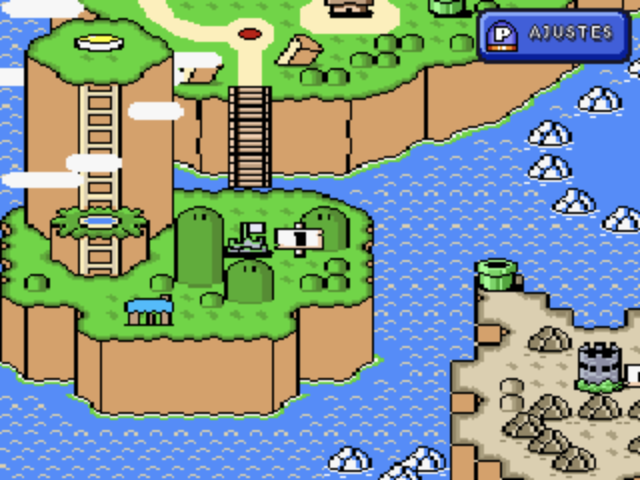
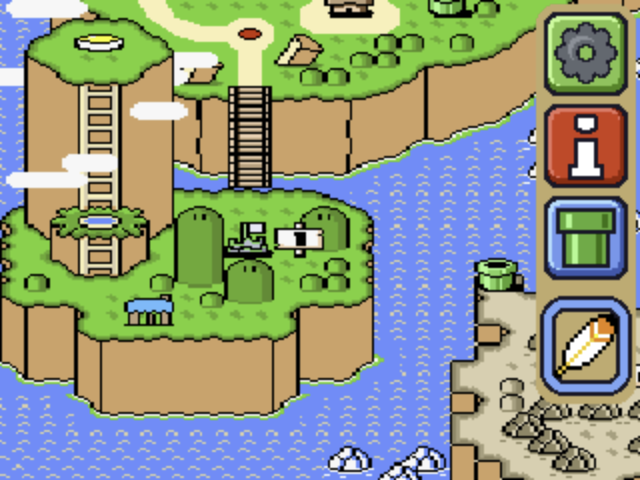
v1.0.0: 2 jugadores por wifi local y nueva pantalla táctil

diff --git a/index.html b/index.html
@@ -38,7 +38,7 @@
   </div>
   <div class="hero-inner">
     <img class="logo" src="assets/img/logo.png" alt="Dino Land 3D: Cape & Egg Collection" width="900" height="361">
-    <p class="tagline" data-i18n="hero.tagline">Dos clásicos de plataformas de 16 bits en tu Nintendo 3DS: la pantalla táctil se convierte en un panel vivo y el 3D separa el escenario en capas.</p>
+    <p class="tagline" data-i18n="hero.tagline">Dos clásicos de plataformas de 16 bits en tu Nintendo 3DS: la pantalla táctil se convierte en un panel vivo, el 3D separa el escenario en capas y ahora se juega a dos jugadores por wifi local.</p>
     <div class="cta">
       <a class="btn btn-primary" id="download" href="https://github.com/ChrZazueta/DinoLand3D-3DS/releases/latest/download/DinoLand3D.cia">
         <span class="btn-icon" aria-hidden="true">⬇</span>
@@ -58,9 +58,14 @@
   <p class="lead" data-i18n="features.lead">No es solo un emulador con un menú: cada pantalla está pensada para jugar en la 3DS.</p>
   <div class="grid">
     <article class="card">
+      <div class="badge b-green">2P</div>
+      <h3 data-i18n="f.net.t">2 jugadores por wifi local</h3>
+      <p data-i18n="f.net.d">Crea una sala y tu amigo se une desde su consola: cada uno controla a su personaje en el juego de 1990, sin cables y sin internet.</p>
+    </article>
+    <article class="card">
       <div class="badge b-red">✋</div>
       <h3 data-i18n="f.touch.t">Pantalla táctil viva</h3>
-      <p data-i18n="f.touch.d">Contadores, progreso por mundo, mapa, inventario y ajustes siempre a un toque, con el estilo de cada juego.</p>
+      <p data-i18n="f.touch.d">Lo de la barra de estado pasa abajo con números grandes: mundo y nivel, puntos, vidas, monedas grandes y el objeto guardado (tócalo para soltarlo). Arriba queda el juego completo.</p>
     </article>
     <article class="card">
       <div class="badge b-blue">3D</div>
@@ -68,14 +73,9 @@
       <p data-i18n="f.3d.d">Con el deslizador, el fondo se va hacia atrás, el escenario queda en la pantalla y los personajes salen hacia ti.</p>
     </article>
     <article class="card">
-      <div class="badge b-yellow">▤</div>
-      <h3 data-i18n="f.bar.t">Barra de estado abajo</h3>
-      <p data-i18n="f.bar.d">La barra original se muda a la pantalla táctil: arriba queda la imagen del juego completa, sin nada encima.</p>
-    </article>
-    <article class="card">
       <div class="badge b-green">⛰</div>
       <h3 data-i18n="f.bg.t">El nivel también abajo</h3>
-      <p data-i18n="f.bg.d">El fondo del nivel en el que estás se ve detrás del panel táctil y se mueve con la cámara.</p>
+      <p data-i18n="f.bg.d">El fondo del nivel en el que estás se ve detrás del panel, que se vuelve transparente, y se mueve con la cámara.</p>
     </article>
     <article class="card">
       <div class="badge b-yellow">◉</div>
@@ -112,11 +112,11 @@
   <h3 class="shots-title" data-i18n="gallery.cape">Cape · 1990</h3>
   <div class="shots">
     <figure class="ds"><div class="screen"><img src="assets/img/cape_level.png" alt="" loading="lazy" width="640" height="480"></div>
-      <figcaption data-i18n="g.cape.level">En un nivel: la barra de estado original, el mapa del mundo y bloques como botones, con el fondo del nivel detrás.</figcaption></figure>
+      <figcaption data-i18n="g.cape.level">En un nivel: mundo y nivel, puntos, vidas, monedas grandes y el objeto guardado, sobre el fondo del propio nivel.</figcaption></figure>
     <figure class="ds"><div class="screen"><img src="assets/img/cape_map.png" alt="" loading="lazy" width="640" height="480"></div>
-      <figcaption data-i18n="g.cape.map">En el mapa: la pantalla táctil continúa el mapa de arriba.</figcaption></figure>
-    <figure class="ds"><div class="screen"><img src="assets/img/cape_info.png" alt="" loading="lazy" width="640" height="480"></div>
-      <figcaption data-i18n="g.cape.info">INFO: monedas, estrellas, vidas, puntos y niveles encontrados.</figcaption></figure>
+      <figcaption data-i18n="g.cape.map">En el mapa: la pantalla táctil continúa el mapa y al lado quedan ajustes, info, mundos y el objeto guardado.</figcaption></figure>
+    <figure class="ds"><div class="screen"><img src="assets/img/cape_lobby.png" alt="" loading="lazy" width="640" height="480"></div>
+      <figcaption data-i18n="g.cape.lobby">2 jugadores: una consola crea la sala y la otra se une.</figcaption></figure>
     <figure class="ds"><div class="screen"><img src="assets/img/cape_menu.png" alt="" loading="lazy" width="640" height="480"></div>
       <figcaption data-i18n="g.cape.menu">Ajustes con el estilo del juego.</figcaption></figure>
   </div>
@@ -211,6 +211,7 @@
     <details><summary data-i18n="q4.q">¿Dónde se guardan mis partidas?</summary><p data-i18n="q4.a">En sd:/3ds/DinoLand3D/saves/. Se guardan al pausar, al ir al menú HOME y al salir. Los estados de guardado están en savestates/.</p></details>
     <details><summary data-i18n="q5.q">¿Cómo actualizo?</summary><p data-i18n="q5.a">Con Wi-Fi, la app busca sola al abrirse y te avisa en el menú de juegos; también puedes buscar a mano en Ajustes → Actualizar. Si la instalaste como CIA se reinicia sola ya actualizada; con el .3dsx, ciérrala y vuelve a abrirla. También puedes volver a escanear el QR.</p></details>
     <details><summary data-i18n="q7.q">No se oye nada, ¿qué hago?</summary><p data-i18n-html="q7.a">A tu consola le falta el firmware de audio (<code>/3ds/dspfirm.cdc</code>); casi siempre ya está porque la guía lo crea al final. Para crearlo: abre el menú de Luma con <strong>L + ↓ + SELECT</strong> → <strong>Miscellaneous options</strong> → <strong>Dump DSP firmware</strong>, y vuelve a abrir la app.</p></details>
+    <details><summary data-i18n="q8.q">¿Cómo se juega a 2 jugadores?</summary><p data-i18n="q8.a">Las dos consolas necesitan Dino Land 3D (la misma versión), la misma ROM del juego de 1990 y la Wi-Fi encendida; no hace falta internet. En una, toca 2 PLAYERS → Crear sala; en la otra, 2 PLAYERS → Buscar salas y elige la sala. Quien crea la sala elige el archivo y es el jugador 1; la otra consola controla al jugador 2. Se juega con la partida guardada de quien crea la sala, y los estados de guardado se desactivan mientras tanto.</p></details>
     <details><summary data-i18n="q6.q">¿Puedo cambiar el idioma?</summary><p data-i18n="q6.a">Sí: Ajustes → Idioma cambia entre español e inglés al momento.</p></details>
   </div>
 </section>

diff --git a/assets/i18n.js b/assets/i18n.js
@@ -6,21 +6,21 @@ window.DINO_EN = {
   "nav.news": "News",
   "nav.faq": "FAQ",
   "nav.support": "Support ☕",
-  "hero.tagline": "Two classic 16-bit platformers on your Nintendo 3DS: the touch screen becomes a live panel and 3D splits the scenery into layers.",
+  "hero.tagline": "Two classic 16-bit platformers on your Nintendo 3DS: the touch screen becomes a live panel, 3D splits the scenery into layers, and now you can play two players over local wireless.",
   "hero.download": "Download CIA",
   "hero.3dsx": "Download .3dsx",
   "hero.howto": "How to install",
   "hero.note": "You need <b>your own copies</b> of the cartridges. No ROMs are distributed here.",
   "features.title": "What's inside",
   "features.lead": "Not just an emulator with a menu: every screen is designed for playing on a 3DS.",
+  "f.net.t": "2 players over local wireless",
+  "f.net.d": "Create a room and your friend joins from their console: each of you controls your own character in the 1990 game, no cables and no internet.",
   "f.touch.t": "A live touch screen",
-  "f.touch.d": "Counters, per-world progress, map, inventory and settings one tap away, styled after each game.",
+  "f.touch.d": "The status bar moves below with big numbers: world and level, score, lives, big coins and the stored item (tap it to drop it). The full game stays on top.",
   "f.3d.t": "Layered 3D",
   "f.3d.d": "Raise the slider: the background sinks back, the stage sits on the screen and the characters pop out towards you.",
-  "f.bar.t": "Status bar below",
-  "f.bar.d": "The original status bar moves to the touch screen, leaving the full game picture on top with nothing in the way.",
   "f.bg.t": "The level, below too",
-  "f.bg.d": "The background of the level you're in shows behind the touch panel and scrolls with the camera.",
+  "f.bg.d": "The background of the level you're in shows behind the panel, which turns see-through, and scrolls with the camera.",
   "f.files.t": "Files with one tap",
   "f.files.d": "Tap your save file and the app drives the game's menu for you.",
   "f.states.t": "Save states",
@@ -35,8 +35,9 @@ window.DINO_EN = {
   "gallery.lead": "Real captures of the bottom screen.",
   "gallery.cape": "Cape · 1990",
   "gallery.egg": "Egg · 1995",
-  "g.cape.level": "In a level: the original status bar, the world map and blocks as buttons, with the level background behind.",
-  "g.cape.map": "On the map: the touch screen continues the map from the top screen.",
+  "g.cape.level": "In a level: world and level, score, lives, big coins and the stored item, over the level's own background.",
+  "g.cape.map": "On the map: the touch screen continues the map, with settings, info, worlds and the stored item at the side.",
+  "g.cape.lobby": "2 players: one console creates the room and the other joins.",
   "g.cape.info": "INFO: coins, stars, lives, score and levels found.",
   "g.cape.menu": "Settings styled after the game.",
   "g.level": "In a level: counters, progress for every world and buttons.",
@@ -79,6 +80,8 @@ window.DINO_EN = {
   "q5.a": "With Wi-Fi, the app checks by itself on launch and lets you know in the game menu; you can also check manually in Settings → Update. If you installed the CIA it restarts already updated; with the .3dsx, close it and open it again. You can also scan the QR code again.",
   "q7.q": "There's no sound, what do I do?",
   "q7.a": "Your console is missing the audio firmware (<code>/3ds/dspfirm.cdc</code>); it's almost always there already because the guide creates it at the end. To create it: open the Luma menu with <strong>L + ↓ + SELECT</strong> → <strong>Miscellaneous options</strong> → <strong>Dump DSP firmware</strong>, then reopen the app.",
+  "q8.q": "How do I play with 2 players?",
+  "q8.a": "Both consoles need Dino Land 3D (the same version), the same ROM of the 1990 game and Wi-Fi switched on; no internet needed. On one, tap 2 PLAYERS → Create room; on the other, 2 PLAYERS → Find rooms and pick the room. Whoever creates the room picks the save file and is player 1; the other console controls player 2. You play on the save file of whoever created the room, and save states are turned off meanwhile.",
   "q6.q": "Can I change the language?",
   "q6.a": "Yes: Settings → Language switches between Spanish and English instantly.",
   "footer.legal": "Non-profit fan project, not affiliated with or endorsed by any console maker. No ROMs or third-party content are distributed. Based on snes9x_3ds."
